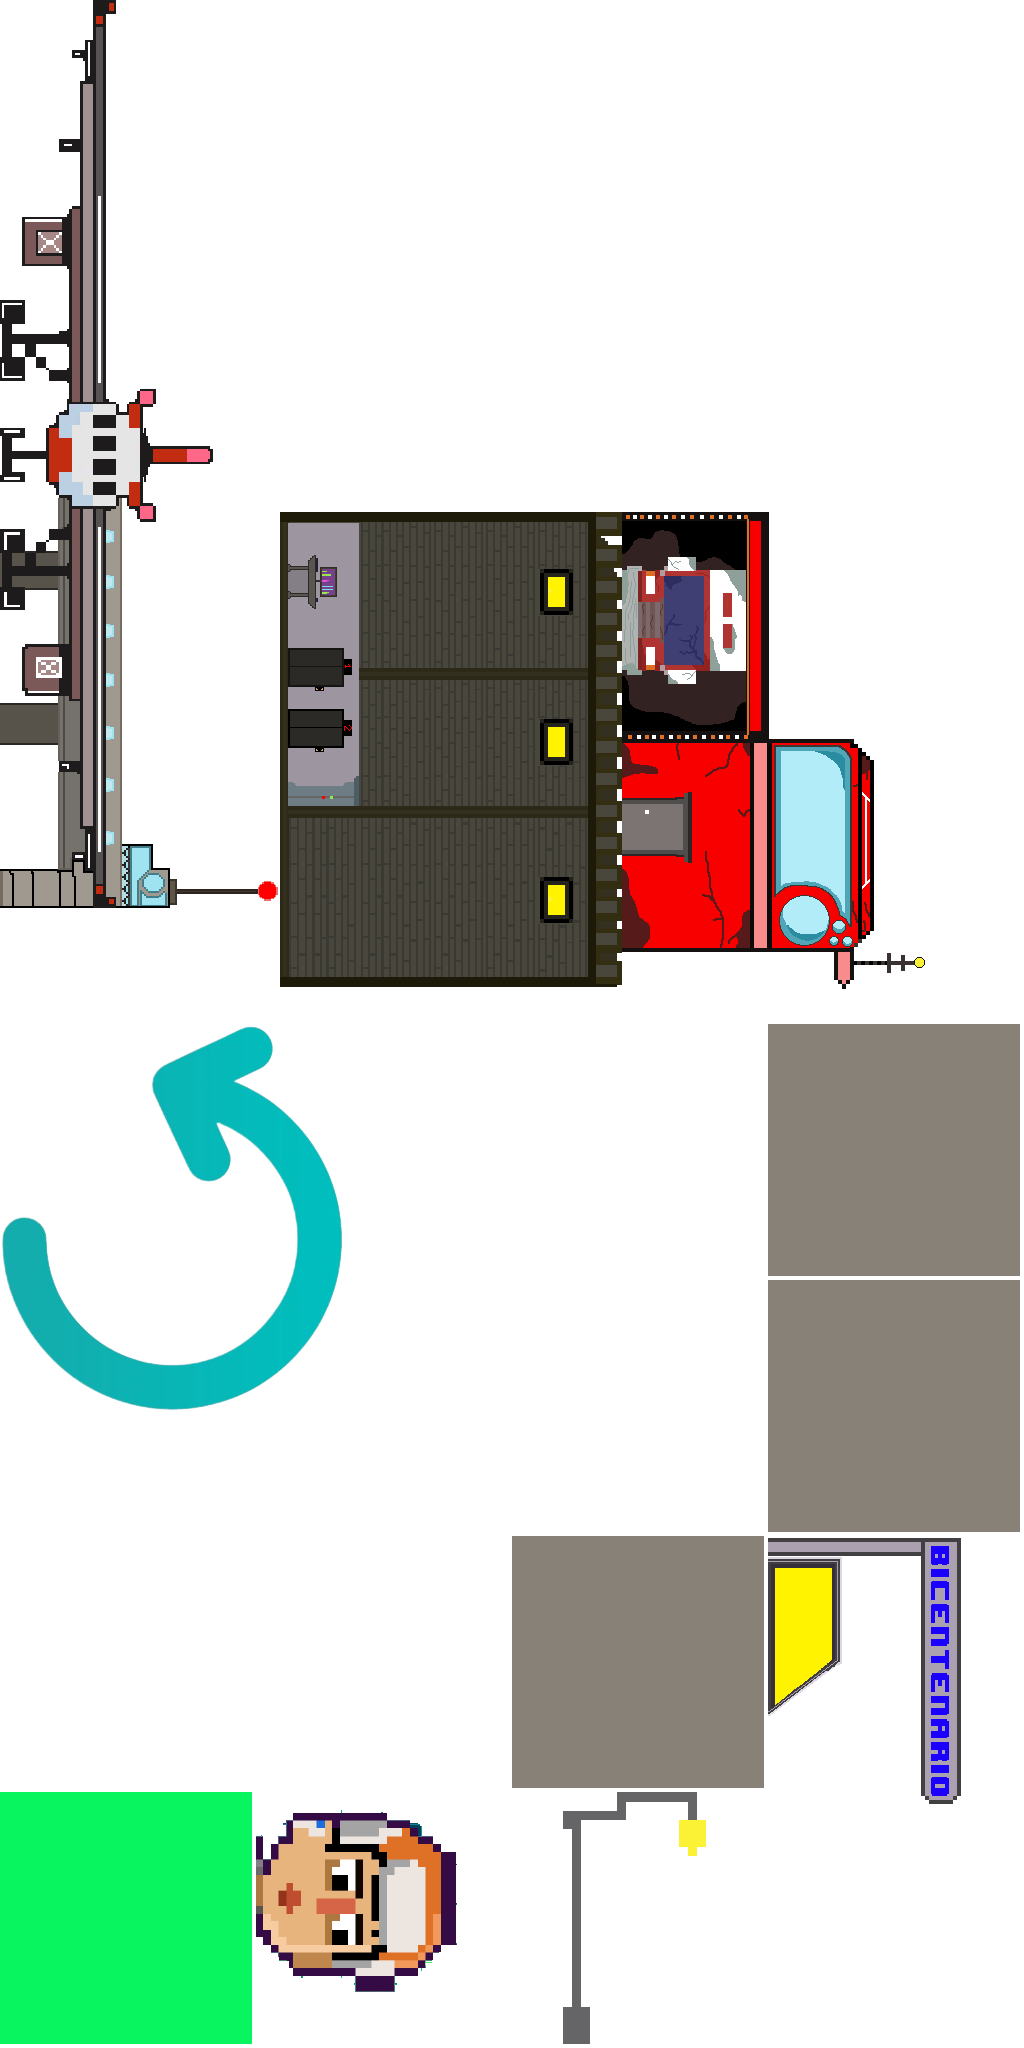
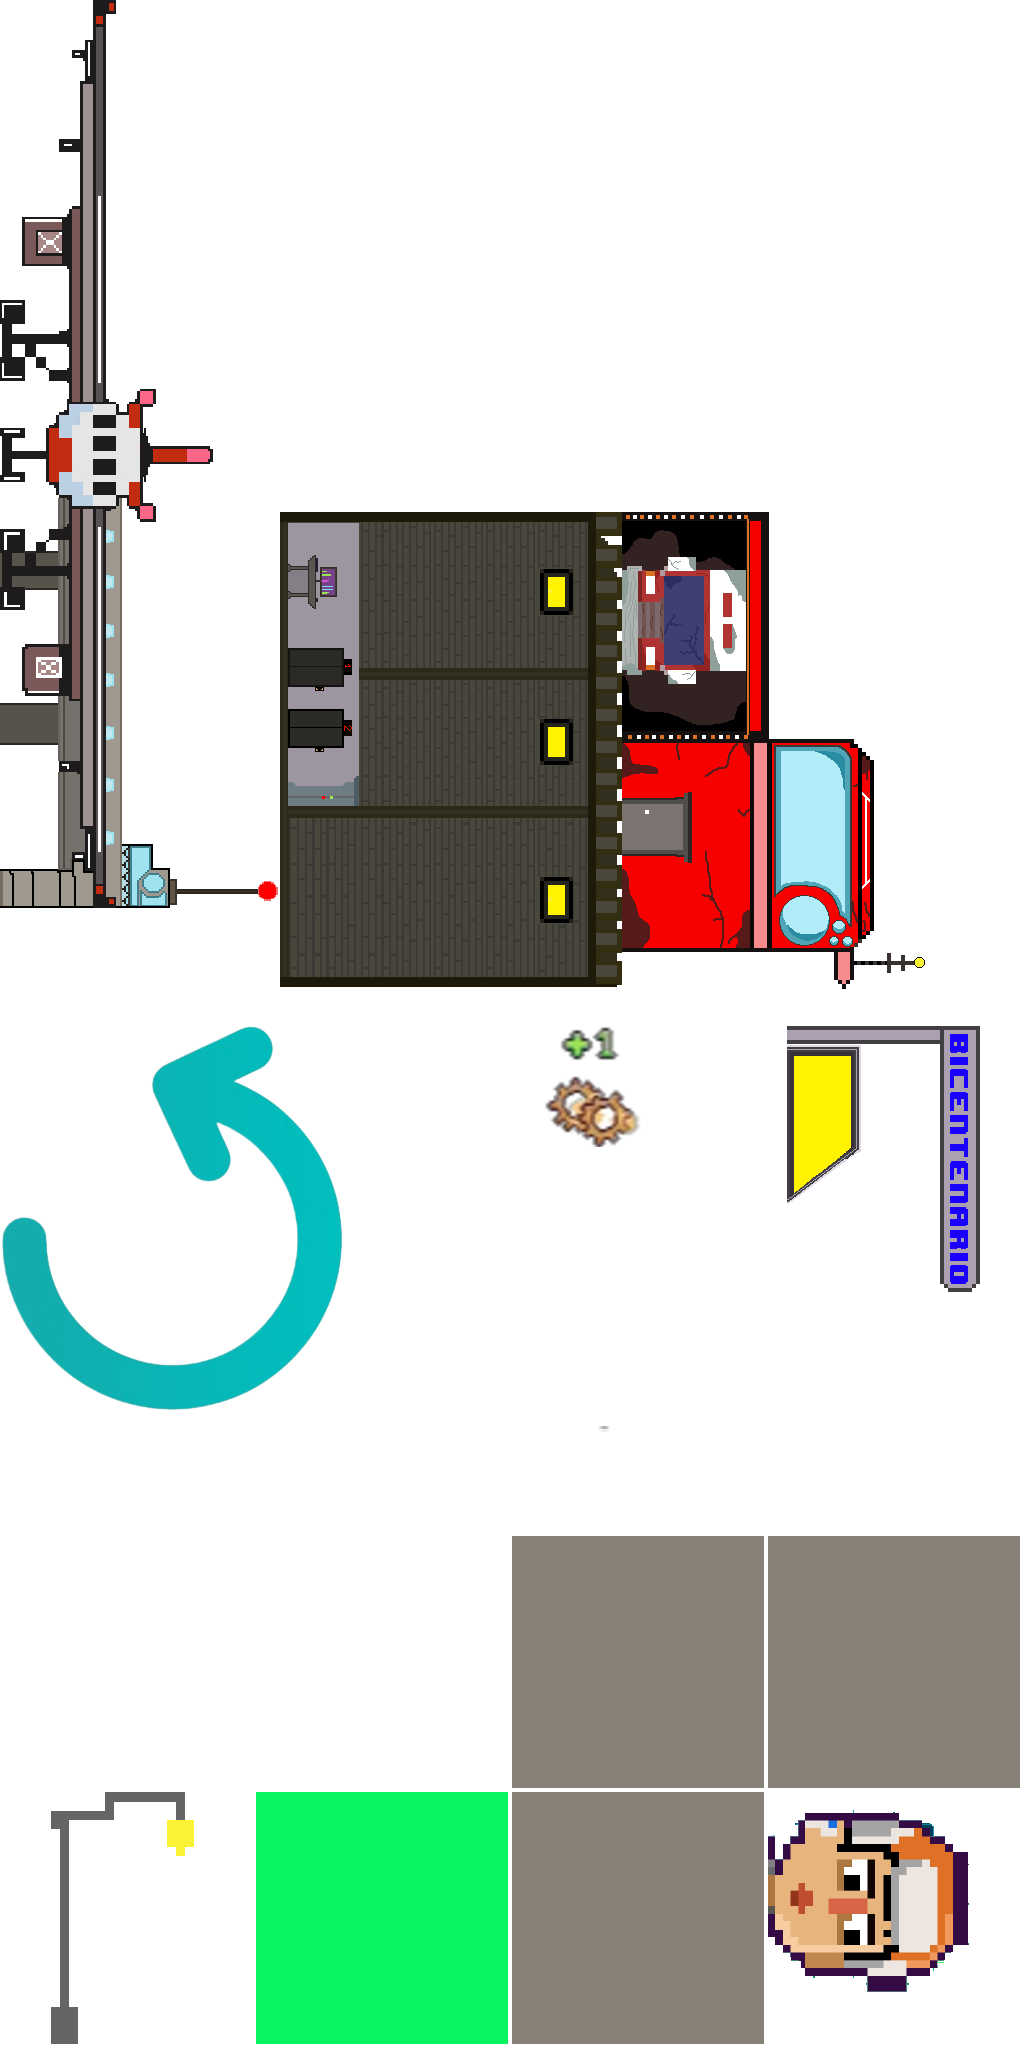
nivel5final

Changed region(s): [[0.0, 0.5, 1.0, 1.0], [0.5312, 0.5, 0.625, 0.5625]]

diff --git a/nivel5/scripts/c3runtime.js b/nivel5/scripts/c3runtime.js
@@ -4354,7 +4354,9 @@ self.C3_GetObjectRefTable = function () {
 		C3.Behaviors.Platform.Cnds.IsOnFloor,
 		C3.Plugins.System.Acts.Wait,
 		C3.Plugins.System.Cnds.CompareTime,
+		C3.Plugins.Sprite.Acts.SetVisible,
 		C3.Behaviors.Platform.Cnds.IsFalling,
+		C3.Plugins.Sprite.Acts.SetPosToObject,
 		C3.Plugins.Sprite.Acts.SetAnimFrame,
 		C3.Plugins.Mouse.Cnds.OnObjectClicked,
 		C3.Plugins.Sprite.Acts.AddInstanceVar
@@ -4362,9 +4364,9 @@ self.C3_GetObjectRefTable = function () {
 };
 self.C3_JsPropNameTable = [
 	{Sólido: 0},
-	{Sprite: 0},
-	{Sprite2: 0},
-	{Sprite3: 0},
+	{plataformasNivel5: 0},
+	{Plataforma2Nivel5: 0},
+	{PlataformaNivel5: 0},
 	{Plataforma: 0},
 	{Bala: 0},
 	{DesplazarHasta: 0},
@@ -4378,45 +4380,43 @@ self.C3_JsPropNameTable = [
 	{Ancla: 0},
 	{VidaTexto: 0},
 	{cabezaNivel5: 0},
-	{Sprite4: 0},
+	{CarnetesCuentaNivel5: 0},
 	{tarjetaTexto: 0},
-	{Sprite5: 0},
+	{PlataformaMuerteNivel5: 0},
 	{Estado: 0},
 	{DestruirFueraDeLaEscena: 0},
 	{RataNivel5: 0},
 	{Variable1: 0},
 	{PalomaNivel5: 0},
-	{textoinicioNivel4: 0},
+	{textoinicioNivel5: 0},
 	{imgNum: 0},
-	{FlechaNivel4: 0},
-	{TextofinalNivel4: 0},
+	{FlechainicioNivel5: 0},
+	{TextofinalNivel5: 0},
 	{otravezNivel4: 0},
-	{flechafinNivel4: 0},
+	{flechafinNivel5: 0},
 	{Mouse: 0},
 	{MetaNivel5: 0},
-	{Sprite6: 0},
-	{Sprite7: 0},
-	{RosaPlanoNivel4: 0},
-	{FondoEnMosaico4: 0},
-	{FondoEnMosaico3: 0},
-	{RosaSEPARADONivel4: 0},
-	{CIeloMoradoNivel4: 0},
-	{TodoCercaNivel4: 0},
-	{FondoEnMosaico5: 0},
-	{susbsuelo: 0},
-	{unsoloescenario: 0},
-	{Sprite13: 0},
-	{Sprite12: 0},
-	{Sprite15: 0},
-	{Sprite10: 0},
-	{bomberos: 0},
-	{salidametrofondo: 0},
-	{basemilitar: 0},
-	{salidametrofrontal: 0},
+	{AlcantarrillaNivel5: 0},
+	{AlcantarillaNivel5: 0},
+	{PremioNivel5: 0},
+	{susbsueloNivel5: 0},
+	{RosaPlanoNivel5: 0},
+	{CalleNivel5: 0},
+	{RosaSEPARADONivel5: 0},
+	{unsoloescenarioNivel5: 0},
+	{TodoCercaNivel5: 0},
+	{ContenedorRosaNivel5: 0},
+	{contenedorverdeNivel5: 0},
+	{LamparaNivel5: 0},
+	{AvionNivel5: 0},
+	{bomberosNivel5: 0},
+	{salidametrofondoNivel5: 0},
+	{basemilitarNivel5: 0},
+	{salidametrofrontalNivel5: 0},
 	{ventanabasemilitar: 0},
-	{Sprite11: 0},
-	{Sprite8: 0},
-	{Sprite16: 0},
+	{MundoNivel5: 0},
+	{Sprite: 0},
+	{Sprite2: 0},
 	{numTarjetas: 0},
 	{vida_Personaje: 0},
 	{Escenasinicio: 0},
@@ -4424,9 +4424,9 @@ self.C3_JsPropNameTable = [
 ];
 
 self.InstanceType = {
-	Sprite: class extends self.ISpriteInstance {},
-	Sprite2: class extends self.ISpriteInstance {},
-	Sprite3: class extends self.ISpriteInstance {},
+	plataformasNivel5: class extends self.ISpriteInstance {},
+	Plataforma2Nivel5: class extends self.ISpriteInstance {},
+	PlataformaNivel5: class extends self.ISpriteInstance {},
 	EcosNivel5: class extends self.ISpriteInstance {},
 	SlimeNivel5: class extends self.ISpriteInstance {},
 	Teclado: class extends self.IInstance {},
@@ -4434,41 +4434,39 @@ self.InstanceType = {
 	Audio: class extends self.IInstance {},
 	VidaTexto: class extends self.ITextInstance {},
 	cabezaNivel5: class extends self.ISpriteInstance {},
-	Sprite4: class extends self.ISpriteInstance {},
+	CarnetesCuentaNivel5: class extends self.ISpriteInstance {},
 	tarjetaTexto: class extends self.ITextInstance {},
-	Sprite5: class extends self.ISpriteInstance {},
+	PlataformaMuerteNivel5: class extends self.ISpriteInstance {},
 	RataNivel5: class extends self.ISpriteInstance {},
 	PalomaNivel5: class extends self.ISpriteInstance {},
-	textoinicioNivel4: class extends self.ISpriteInstance {},
-	FlechaNivel4: class extends self.ISpriteInstance {},
-	TextofinalNivel4: class extends self.ISpriteInstance {},
+	textoinicioNivel5: class extends self.ISpriteInstance {},
+	FlechainicioNivel5: class extends self.ISpriteInstance {},
+	TextofinalNivel5: class extends self.ISpriteInstance {},
 	otravezNivel4: class extends self.ISpriteInstance {},
-	flechafinNivel4: class extends self.ISpriteInstance {},
+	flechafinNivel5: class extends self.ISpriteInstance {},
 	Mouse: class extends self.IInstance {},
 	MetaNivel5: class extends self.ISpriteInstance {},
-	Sprite6: class extends self.ISpriteInstance {},
-	Sprite7: class extends self.ISpriteInstance {},
-	RosaPlanoNivel4: class extends self.ITiledBackgroundInstance {},
-	FondoEnMosaico4: class extends self.ITiledBackgroundInstance {},
-	FondoEnMosaico3: class extends self.ITiledBackgroundInstance {},
-	RosaSEPARADONivel4: class extends self.ITiledBackgroundInstance {},
-	CIeloMoradoNivel4: class extends self.ITiledBackgroundInstance {},
-	TodoCercaNivel4: class extends self.ITiledBackgroundInstance {},
-	FondoEnMosaico5: class extends self.ITiledBackgroundInstance {},
-	susbsuelo: class extends self.ITiledBackgroundInstance {},
-	unsoloescenario: class extends self.ITiledBackgroundInstance {},
-	Sprite13: class extends self.ISpriteInstance {},
-	Sprite12: class extends self.ISpriteInstance {},
-	Sprite15: class extends self.ISpriteInstance {},
-	Sprite10: class extends self.ISpriteInstance {},
-	bomberos: class extends self.ISpriteInstance {},
-	salidametrofondo: class extends self.ISpriteInstance {},
-	basemilitar: class extends self.ISpriteInstance {},
-	salidametrofrontal: class extends self.ISpriteInstance {},
+	AlcantarrillaNivel5: class extends self.ISpriteInstance {},
+	AlcantarillaNivel5: class extends self.ISpriteInstance {},
+	PremioNivel5: class extends self.ISpriteInstance {},
+	susbsueloNivel5: class extends self.ITiledBackgroundInstance {},
+	RosaPlanoNivel5: class extends self.ITiledBackgroundInstance {},
+	CalleNivel5: class extends self.ITiledBackgroundInstance {},
+	RosaSEPARADONivel5: class extends self.ITiledBackgroundInstance {},
+	unsoloescenarioNivel5: class extends self.ITiledBackgroundInstance {},
+	TodoCercaNivel5: class extends self.ITiledBackgroundInstance {},
+	ContenedorRosaNivel5: class extends self.ISpriteInstance {},
+	contenedorverdeNivel5: class extends self.ISpriteInstance {},
+	LamparaNivel5: class extends self.ISpriteInstance {},
+	AvionNivel5: class extends self.ISpriteInstance {},
+	bomberosNivel5: class extends self.ISpriteInstance {},
+	salidametrofondoNivel5: class extends self.ISpriteInstance {},
+	basemilitarNivel5: class extends self.ISpriteInstance {},
+	salidametrofrontalNivel5: class extends self.ISpriteInstance {},
 	ventanabasemilitar: class extends self.ISpriteInstance {},
-	Sprite11: class extends self.ISpriteInstance {},
-	Sprite8: class extends self.ISpriteInstance {},
-	Sprite16: class extends self.ISpriteInstance {}
+	MundoNivel5: class extends self.ISpriteInstance {},
+	Sprite: class extends self.ISpriteInstance {},
+	Sprite2: class extends self.ISpriteInstance {}
 }
 }
 
@@ -4589,8 +4587,6 @@ self.C3_ExpressionFuncs = [
 		() => 2,
 		() => "Salto",
 		() => "caminar",
-		() => "Premio",
-		() => "Caminar",
 		() => "Caida",
 		p => {
 			const n0 = p._GetNode(0);
